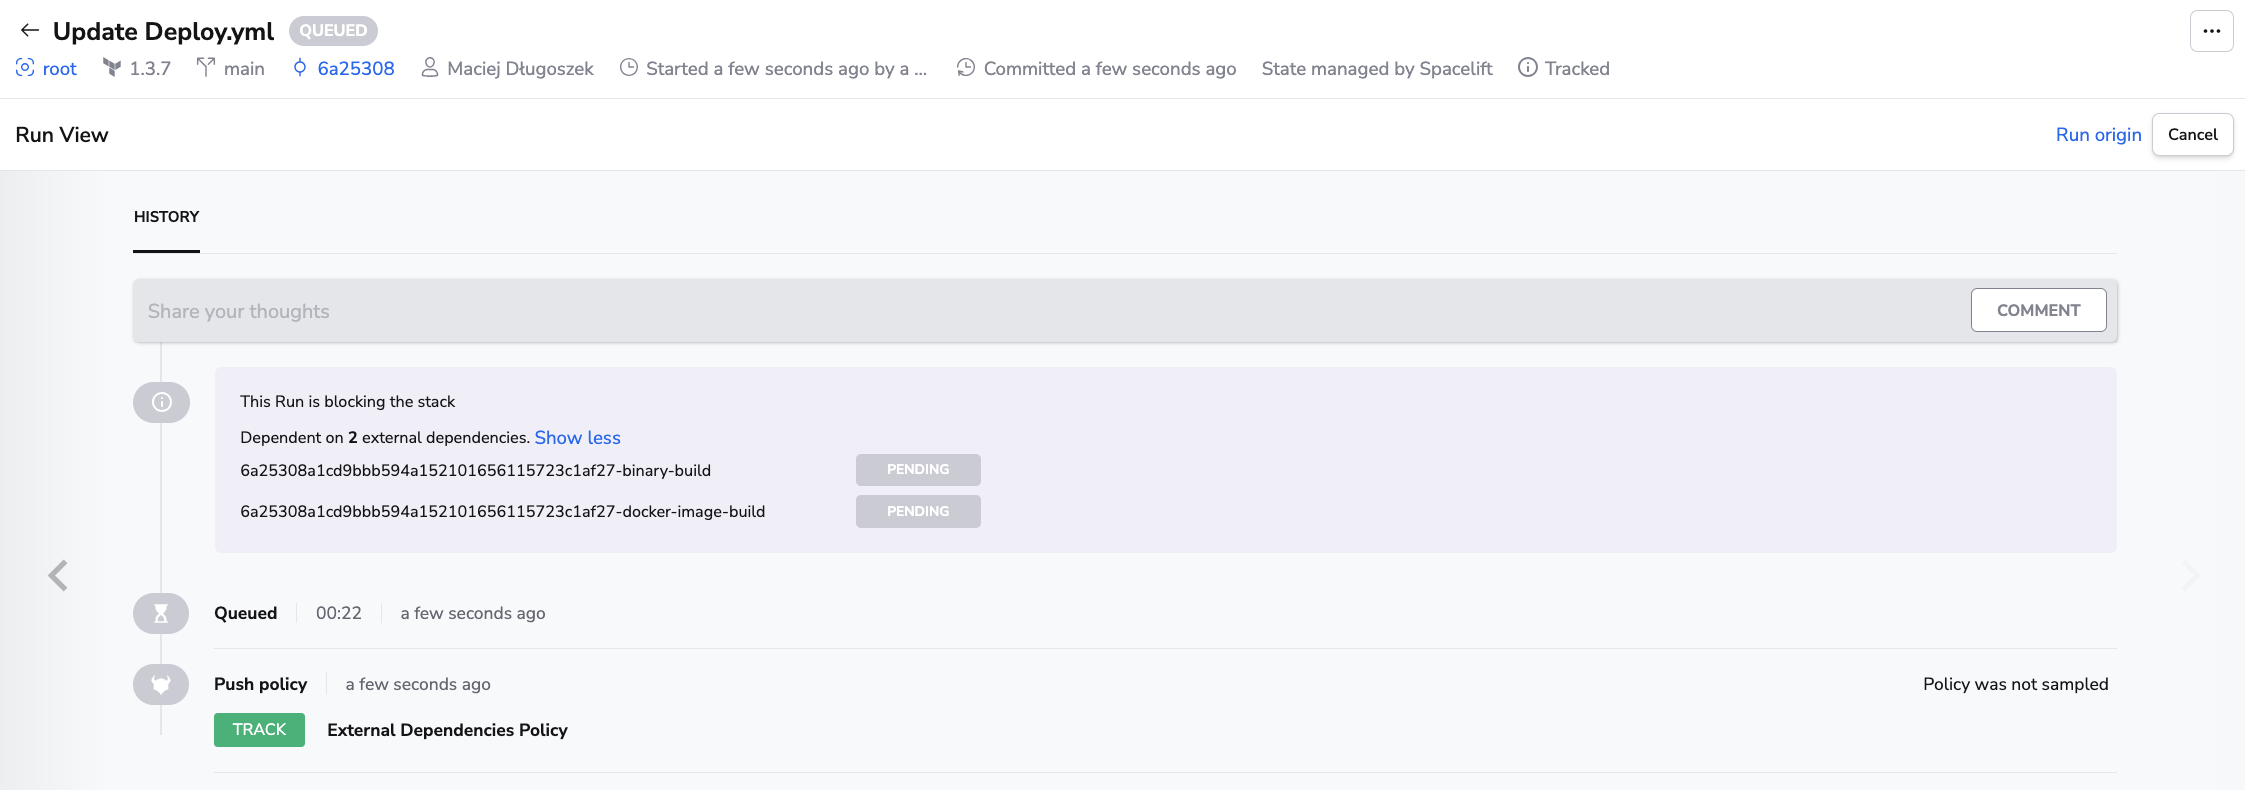
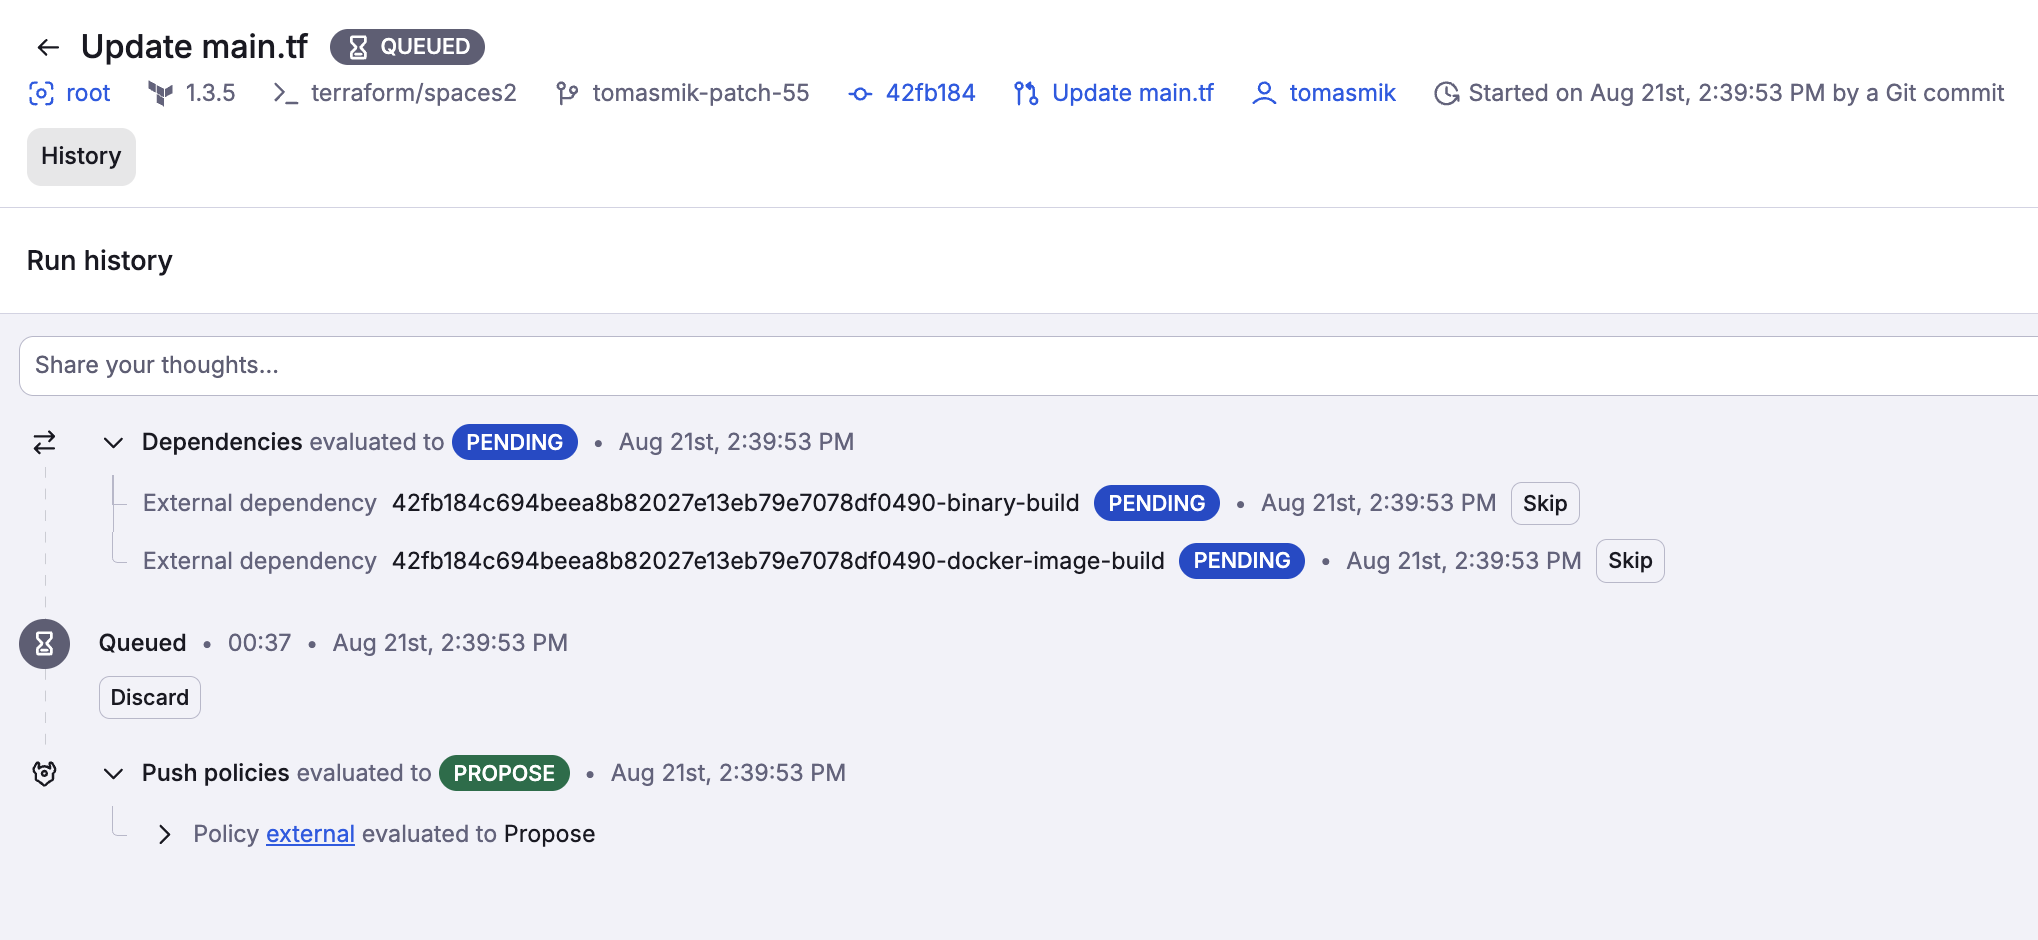
Include new screenshots explaining dependency skipping

diff --git a/docs/concepts/policy/push-policy/run-external-dependencies.md b/docs/concepts/policy/push-policy/run-external-dependencies.md
@@ -154,15 +154,15 @@ jobs:
 ### Testing example
 
 Having the policy and the pipeline defined, we can now test it. Creating a new commit in the repository will trigger the pipeline.
-As we can see a run was created in Spacelift, but it's in queued state. The run will not start until all the dependencies are marked as finished.
+As we can see a run was created in Spacelift, but it's in queued state. The run will not start until all the dependencies are marked as finished or skipped.
 
 ![](<../../../assets/screenshots/run-external-dependency-queued.png>)
 
-After the binary-build dependency has been marked as completed the run is still queued, as the docker-image-build dependency is still not resolved.
+After the binary-build dependency has been marked as skipped the run is still queued, as the docker-image-build dependency is still not resolved.
 
 ![](<../../../assets/screenshots/run-external-dependency-completed-1.png>)
 
-The run starts only after all the dependencies are marked as finished.
+The run starts only after all the dependencies reach a terminal state.
 
 ![](<../../../assets/screenshots/run-external-dependency-completed-2.png>)
 
